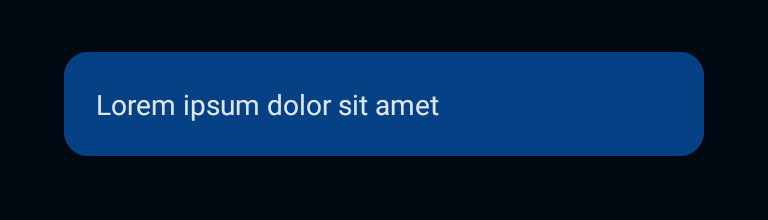
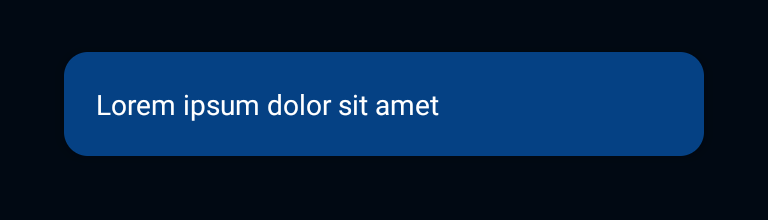
Removed MD mappings from BpkTheme (#1505)
* Moved MD mappings

* Updated snapshots for 'dm'

* Trigger CI

* Trigger CI

* Colors experiment

* Updated snapshots for 'dm'

* Colors experiment

* Colors experiment

* Testing theme

* Fixed the BpkFloatingNotification.kt

* Fixed the BpkFloatingNotification.kt

* Updated snapshots for 'dm'

* Trigger CI

---------

Changed region(s): [[0.125, 0.4364, 0.5938, 0.5455]]

diff --git a/backpack-compose/src/main/kotlin/net/skyscanner/backpack/compose/theme/BpkTheme.kt b/backpack-compose/src/main/kotlin/net/skyscanner/backpack/compose/theme/BpkTheme.kt
@@ -19,21 +19,16 @@
 package net.skyscanner.backpack.compose.theme
 
 import androidx.compose.foundation.isSystemInDarkTheme
-import androidx.compose.material.Colors
 import androidx.compose.material.LocalContentAlpha
 import androidx.compose.material.LocalContentColor
 import androidx.compose.material.LocalElevationOverlay
 import androidx.compose.material.LocalTextStyle
-import androidx.compose.material.MaterialTheme
-import androidx.compose.material.Shapes
-import androidx.compose.material.Typography
 import androidx.compose.runtime.Composable
 import androidx.compose.runtime.CompositionLocalProvider
 import androidx.compose.runtime.ReadOnlyComposable
 import androidx.compose.runtime.staticCompositionLocalOf
 import androidx.compose.ui.platform.LocalInspectionMode
 import androidx.compose.ui.text.font.FontFamily
-import androidx.compose.ui.text.font.FontWeight
 import net.skyscanner.backpack.compose.tokens.BpkColors
 import net.skyscanner.backpack.compose.tokens.BpkShapes
 import net.skyscanner.backpack.compose.tokens.BpkTypography
@@ -57,22 +52,16 @@ fun BpkTheme(
     val colors = if (isSystemInDarkTheme()) BpkColors.dark() else BpkColors.light()
     val shapes = BpkShapes()
 
-    MaterialTheme(
-        typography = typography.toMaterialTypography(fontFamily),
-        colors = colors.toMaterialColors(),
-        shapes = shapes.toMaterialShapes(),
-    ) {
-        CompositionLocalProvider(
-            LocalBpkTypography provides typography,
-            LocalBpkColors provides colors,
-            LocalBpkShapes provides shapes,
-            LocalContentColor provides colors.textPrimary,
-            LocalElevationOverlay provides null,
-            LocalTextStyle provides typography.bodyDefault,
-            LocalContentAlpha provides 1f,
-            content = content,
-        )
-    }
+    CompositionLocalProvider(
+        LocalBpkTypography provides typography,
+        LocalBpkColors provides colors,
+        LocalBpkShapes provides shapes,
+        LocalContentColor provides colors.textPrimary,
+        LocalElevationOverlay provides null,
+        LocalTextStyle provides typography.bodyDefault,
+        LocalContentAlpha provides 1f,
+        content = content,
+    )
 }
 
 object BpkTheme {
@@ -110,45 +99,3 @@ object BpkTheme {
             LocalBpkShapes.current
         }
 }
-
-private fun BpkTypography.toMaterialTypography(fontFamily: FontFamily): Typography =
-    Typography(
-        defaultFontFamily = fontFamily,
-        h1 = hero2,
-        h2 = hero4,
-        h3 = hero5,
-        h4 = heading2,
-        h5 = heading3,
-        h6 = heading4,
-        subtitle1 = bodyDefault,
-        subtitle2 = footnote,
-        body1 = bodyDefault,
-        body2 = footnote,
-        button = label2,
-        caption = caption,
-        overline = caption.copy(fontWeight = FontWeight.Bold),
-    )
-
-private fun BpkColors.toMaterialColors(): Colors =
-    Colors(
-        primary = corePrimary,
-        primaryVariant = corePrimary,
-        secondary = coreAccent,
-        secondaryVariant = coreAccent,
-        background = canvas,
-        surface = surfaceDefault,
-        error = textError,
-        onPrimary = textOnDark,
-        onSecondary = textPrimaryInverse,
-        onBackground = textPrimary,
-        onSurface = textPrimary,
-        onError = textOnDark,
-        isLight = isLight,
-    )
-
-private fun BpkShapes.toMaterialShapes(): Shapes =
-    Shapes(
-        small = small,
-        medium = medium,
-        large = large,
-    )

diff --git a/backpack-compose/src/main/kotlin/net/skyscanner/backpack/compose/floatingnotification/internal/BpkFloatingNotification.kt b/backpack-compose/src/main/kotlin/net/skyscanner/backpack/compose/floatingnotification/internal/BpkFloatingNotification.kt
@@ -30,8 +30,10 @@ import androidx.compose.foundation.layout.Arrangement
 import androidx.compose.foundation.layout.Row
 import androidx.compose.foundation.layout.fillMaxHeight
 import androidx.compose.foundation.shape.RoundedCornerShape
+import androidx.compose.material.LocalContentAlpha
 import androidx.compose.material.Snackbar
 import androidx.compose.runtime.Composable
+import androidx.compose.runtime.CompositionLocalProvider
 import androidx.compose.ui.Alignment
 import androidx.compose.ui.Modifier
 import androidx.compose.ui.text.style.TextOverflow
@@ -57,36 +59,37 @@ internal fun BpkFloatingNotificationImpl(
         backgroundColor = BpkTheme.colors.corePrimary,
         contentColor = BpkTheme.colors.textOnDark,
     ) {
+        CompositionLocalProvider(LocalContentAlpha provides 1f) {
+            Row(
+                modifier = Modifier.fillMaxHeight(),
+                horizontalArrangement = Arrangement.spacedBy(BpkSpacing.Base),
+                verticalAlignment = Alignment.CenterVertically,
+            ) {
 
-        Row(
-            modifier = Modifier.fillMaxHeight(),
-            horizontalArrangement = Arrangement.spacedBy(BpkSpacing.Base),
-            verticalAlignment = Alignment.CenterVertically,
-        ) {
+                data.icon?.let { icon ->
+                    BpkIcon(
+                        icon = icon,
+                        contentDescription = null,
+                        size = BpkIconSize.Small,
+                    )
+                }
 
-            data.icon?.let { icon ->
-                BpkIcon(
-                    icon = icon,
-                    contentDescription = null,
-                    size = BpkIconSize.Small,
+                BpkText(
+                    modifier = Modifier.weight(1f),
+                    text = data.text,
+                    maxLines = 2,
+                    style = BpkTheme.typography.footnote,
+                    overflow = TextOverflow.Ellipsis,
                 )
-            }
 
-            BpkText(
-                modifier = Modifier.weight(1f),
-                text = data.text,
-                maxLines = 2,
-                style = BpkTheme.typography.footnote,
-                overflow = TextOverflow.Ellipsis,
-            )
-
-            data.cta?.let { cta ->
-                BpkButton(
-                    text = cta,
-                    type = BpkButtonType.LinkOnDark,
-                    onClick = { data.performAction() },
-                    size = BpkButtonSize.Default,
-                )
+                data.cta?.let { cta ->
+                    BpkButton(
+                        text = cta,
+                        type = BpkButtonType.LinkOnDark,
+                        onClick = { data.performAction() },
+                        size = BpkButtonSize.Default,
+                    )
+                }
             }
         }
     }
